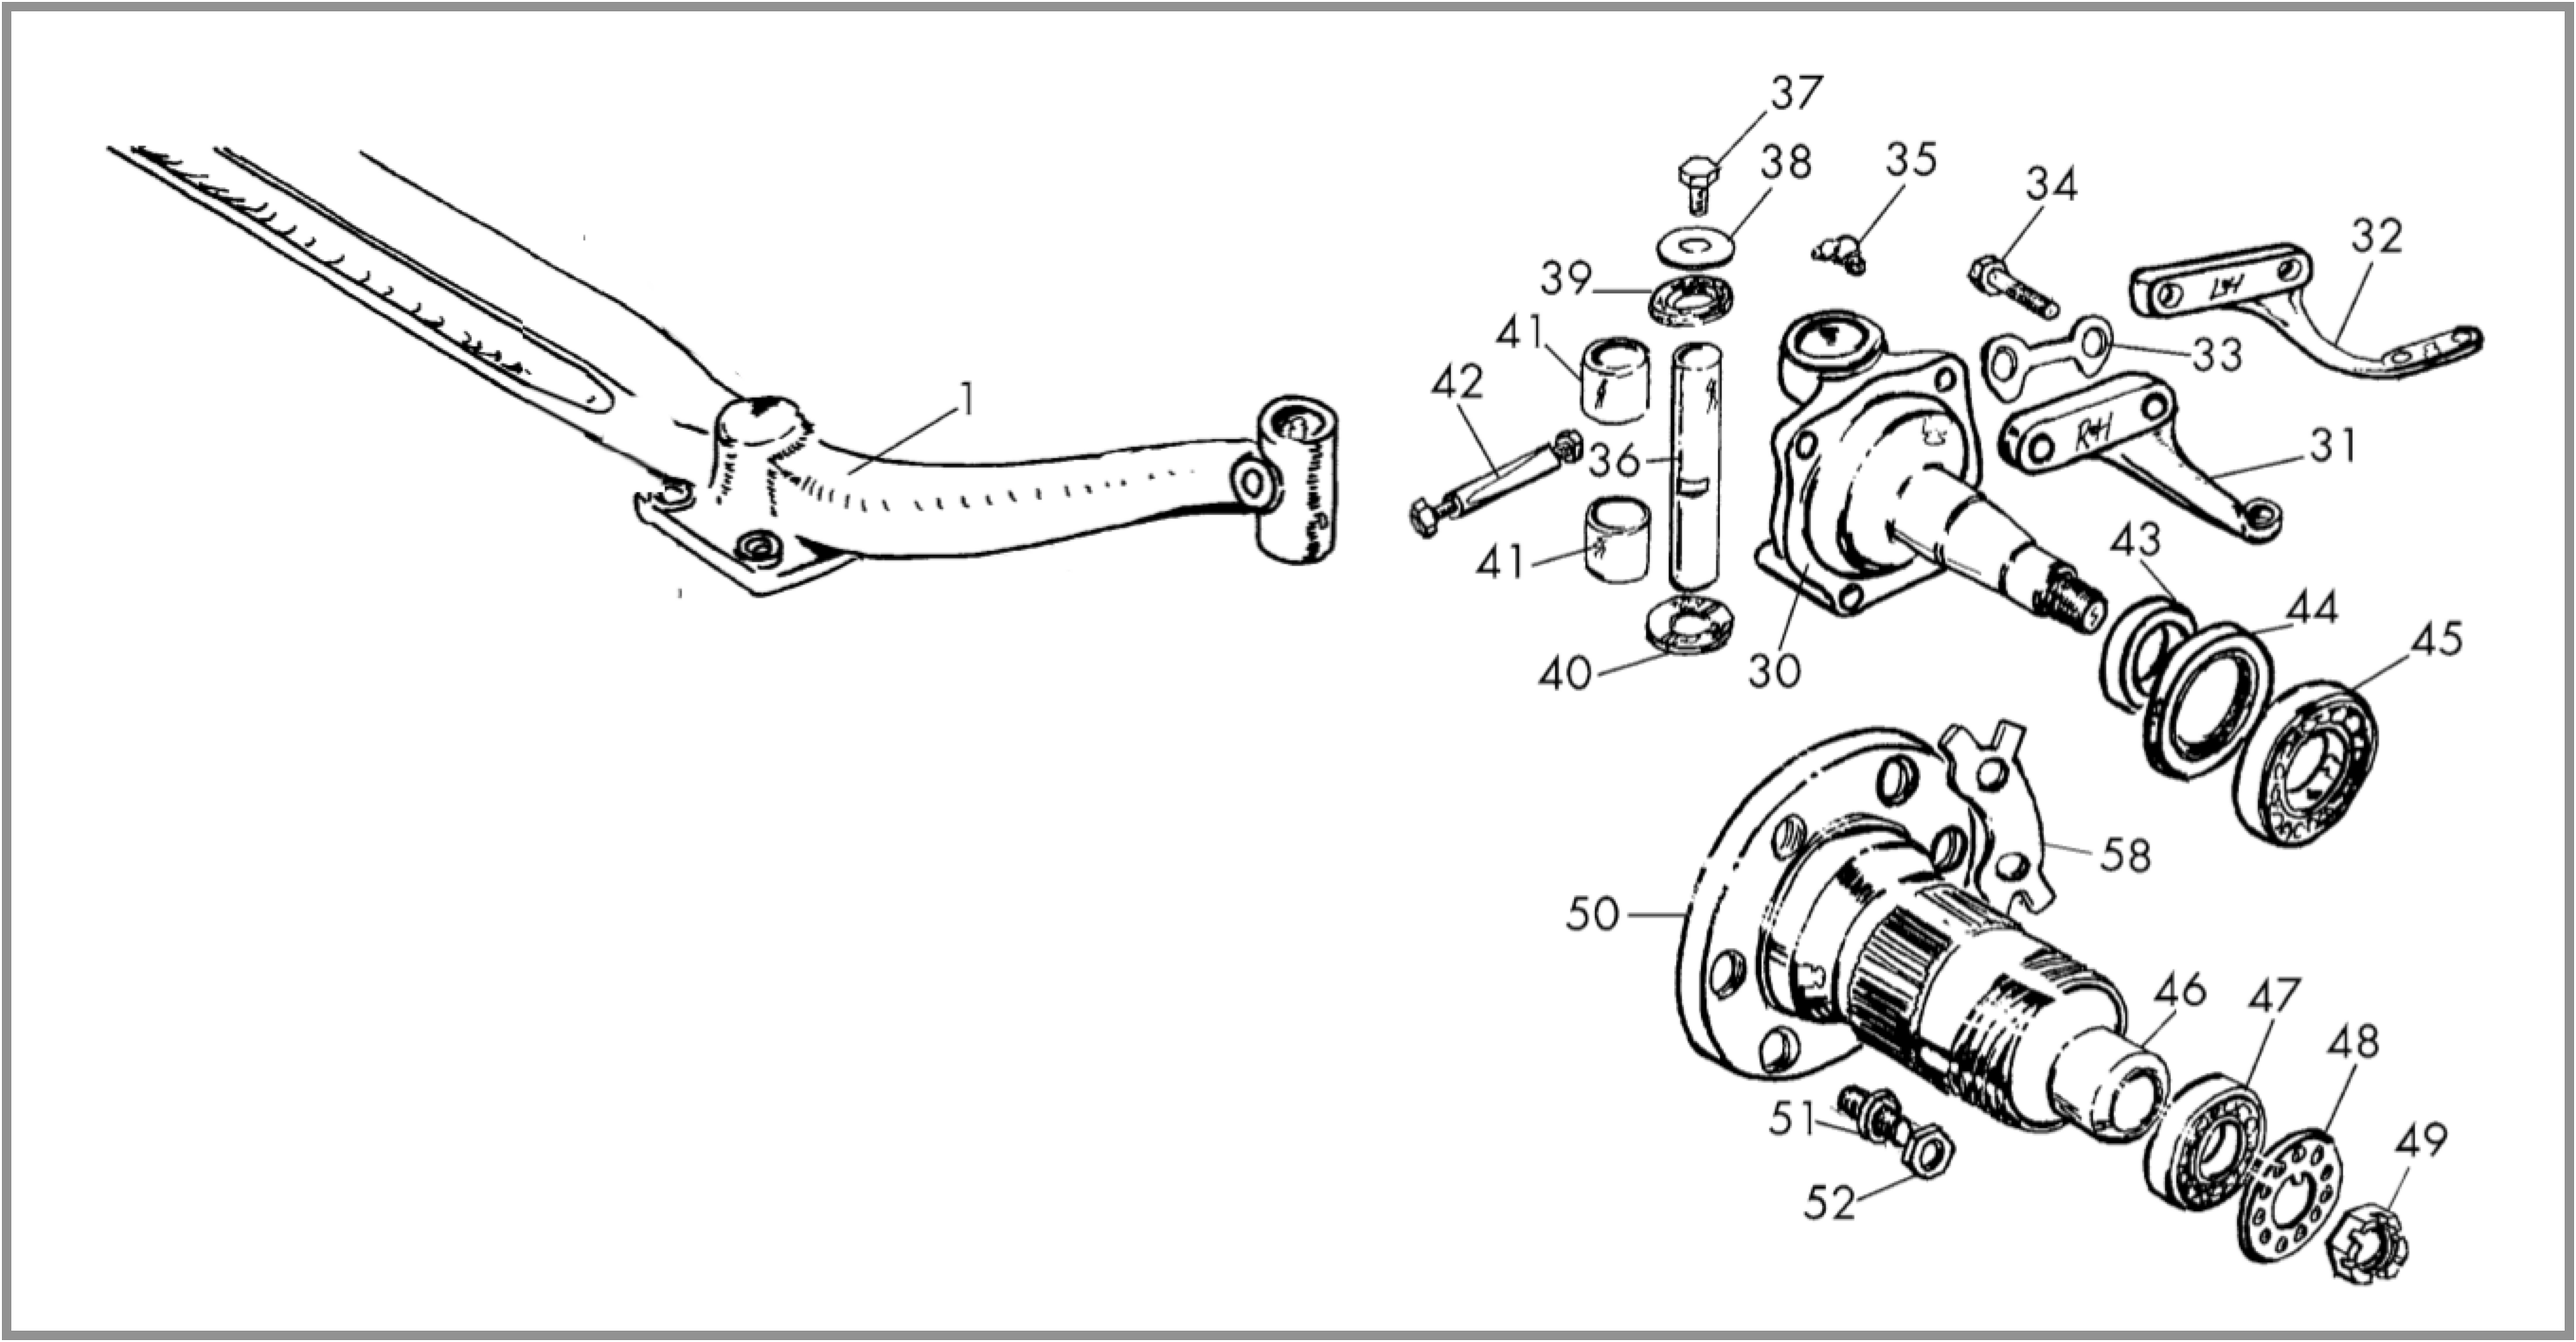
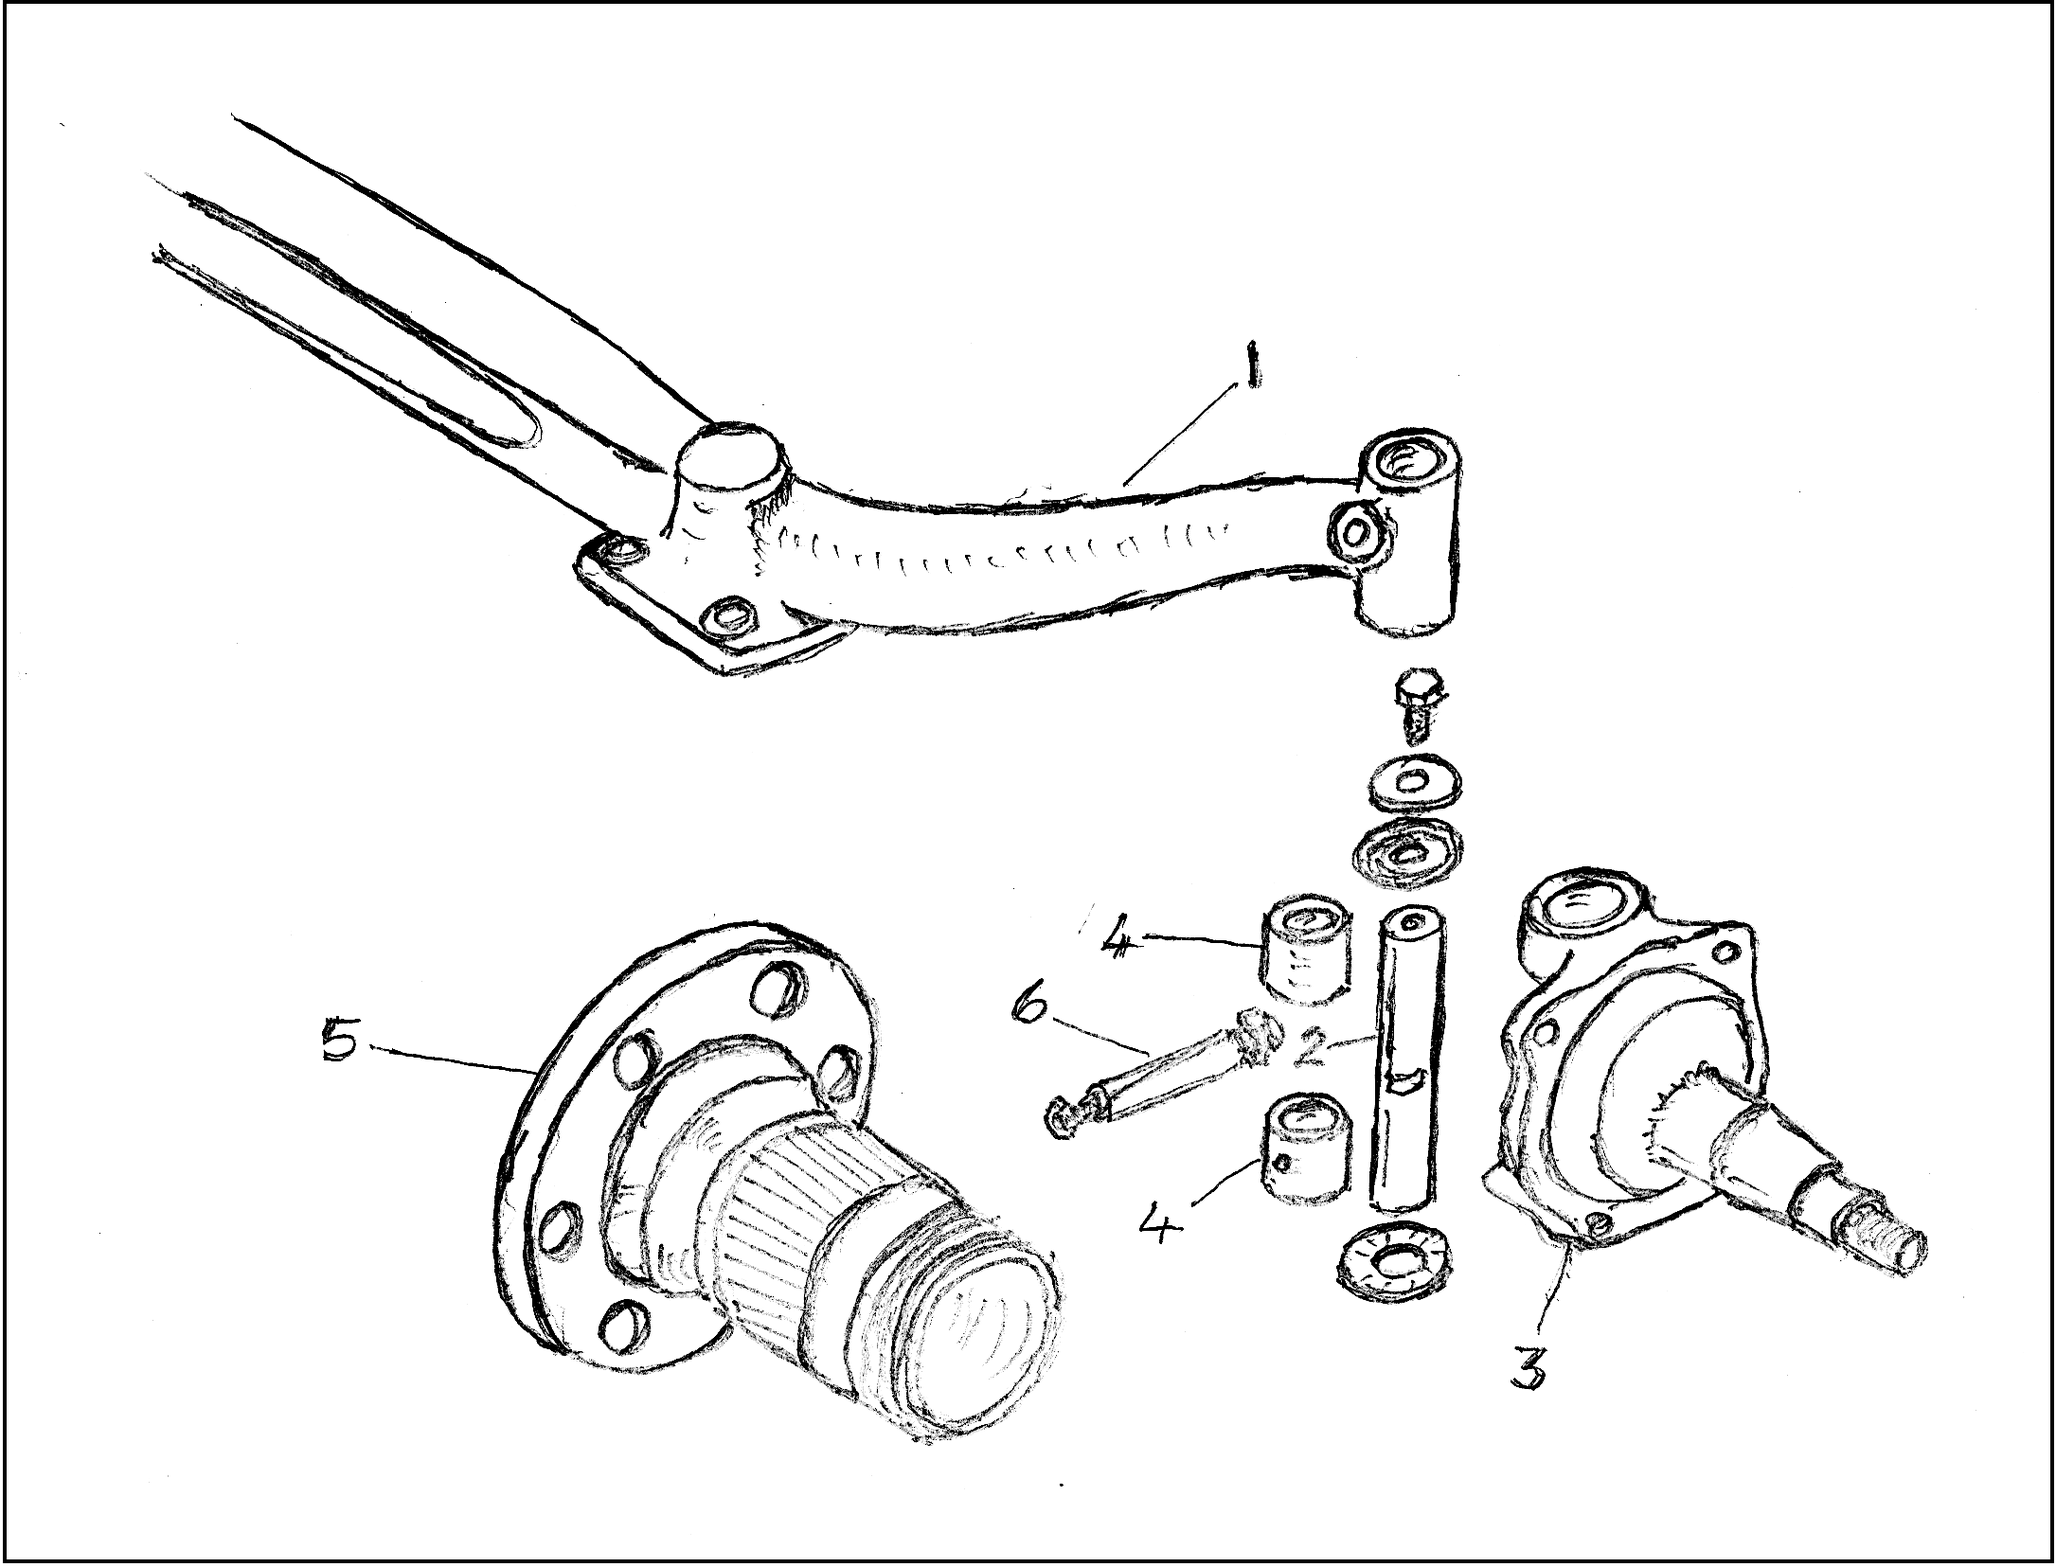
update

diff --git a/articles/kingpins/kingpins.html b/articles/kingpins/kingpins.html
@@ -5,15 +5,15 @@
     <meta http-equiv="X-UA-Compatible" content="IE=edge">
     <title>Unnecessary</title>
     <meta name="description" content="title">
-    <link rel="stylesheet" href="../style.css">
+    <link rel="stylesheet" href="style.css">
   </head>
   <body>
     <div class="spiral">
       <div class="page">
         <h1>Unnecessary Work</h1>
         <p>Have you ever done some work that proved not to have been necessary? Or perhaps you spent money on something that you then found you didn't need? I've recently discovered that I've succumbed to both of these! My unnecessary work involved replacing the kingpins on my TC. But I doubt that many of you have a beam axle and leaf springs on the front suspension of your cars. So I'd better just give you a brief overview of how they are arranged.</p>
-        <p><img src="images/kingpins.png" style="float: right; margin: 0px 0px 20px 20px; box-shadow: 10px 10px 5px #888888; width: 500px;"/>I've 'borrowed' this diagram from one of the parts catalogues, but in it you can see the near-side end of the beam axle (1) with the eye that takes the kingpin. The kingpin (36) passes through the top of the stub axle (30), through the eye of the beam axle and then through the lower part of the stub axle. Those two parts of the stub axle contain bushes (41), because the stub axle rotates as you move the steering wheel. The hub (50) is then pushed on to the spindle of the stub axle and the wheel is attached to the hub.</p>
-        <p>The bit that I missed out is that the kingpin is 'locked' into the axle by a cotter pin (42), which passes through the horizontal hole in the axle and engages with the kingpin. The kingpin is a tight fit into the axle eye and has a slot cut into it. The cotter pin has a tapered flat section so that, with the two holes in the axle slightly overlapping, the cotter pin, when tapped in from one side, locks the kingpin in place. The cotter pin has a small nut on one end, for tightening the pin in the axle, and a large, round-headed nut on the other, which is part of the steering stop.</p>
+        <p><img src="images/kingpins.png" style="float: right; margin: 0px 0px 20px 20px; box-shadow: 10px 10px 5px #888888; width: 500px;"/>I've copied the elements of this diagram from one of the parts catalogues, but in it you can see the near-side end of the beam axle (1) with the eye that takes the kingpin. The kingpin (2) passes through the top of the stub axle (3), through the eye of the beam axle and then through the lower part of the stub axle. Those two parts of the stub axle contain bushes (4), because the stub axle rotates as you move the steering wheel. The hub (5) is then pushed on to the spindle of the stub axle and the wheel is attached to the hub.</p>
+        <p>The bit that I missed out is that the kingpin is 'locked' into the axle by a cotter pin (6), which passes through the horizontal hole in the axle and engages with the kingpin. The kingpin is a tight fit into the axle eye and has a slot cut into it. The cotter pin has a tapered flat section so that, with the two holes in the axle slightly overlapping, the cotter pin, when tapped in from one side, locks the kingpin in place. The cotter pin has a small nut on one end, for tightening the pin in the axle, and a large, round-headed nut on the other, which is part of the steering stop.</p>
         <p><img src="images/kingpinSection.png" style="float: left; margin: 0px 20px 20px 0px; box-shadow: 10px 10px 5px #888888; width: 350px;"/>Hopefully you can see how that works in this vertical slice through the stub axle. There is also a bronze thrust washer between the beam axle and the stub axle and steel shims to reduce any vertical movement.</p>
         <p>My understanding is that all MG cars, up to and including the TC, had this arrangement with a beam axle. The Y-Type, however, first produced in 1947, and therefore overlapping with TC production, was the first model to be fitted with independent front suspension. This design, which still has a stub axle and the equivalent of a kingpin (called a swivel pin), but no beam axle and with the leaf spring replaced by a coil spring, was then used on the TD, TF, MGA and with a modified version on the MGB.</p>
         <p>Now, why did I decide to replace the kingpins on the TC. When I replaced the spindles on the stub axles, back in 2016, I noticed two things. Firstly, the stub axle bushes on one side were clearly different to those on the other side, protruding at the top and bottom. Secondly, the cotter pins were odd and not of the correct type and when I fitted the correct versions, the near-side pin went further through the axle than it should. These observations lead me to the conclusion that odd kingpins had been fitted to the car. The stub axles are sided and they had been put on the wrong sides, so at the time I was more concerned about correcting this and dealing with cracks that were visible at the roots of the spindles. Replacement of the kingpins could wait until later.</p>
@@ -23,9 +23,9 @@
         <p><img src="images/cotter.png" style="float: left; margin: 0px 20px 20px 0px; box-shadow: 10px 10px 5px #888888; width: 350px;"/>So what was I to do? As you can see from the drawing, the cotter pin is a bolt with a large nut on one end (which forms part of the steering stop) and a smaller nut on the other, which is used to tighten the pin in the axle. However, rather than just being a cylindrical bolt, it has a flat surface machined on it so that it can engage with the slot in the kingpin. I could ask the person who makes these cotter pins to make one with the flat moved along a little, but that would take time and result in something that might cause confusion in years to come. So I decided to make a shim, a sliver of steel to go between the flat on the cotter pin and the slot in the kingpin. You can see it noted in the drawing and a quick calculation suggested that it needed to be less than 20 thou in thickness.</p>
         <p><img src="images/IMG_1194s.jpg" style="float: right; margin: 0px 0px 20px 20px; box-shadow: 10px 10px 5px #888888; width: 450px;"/>So I cut the head and thread off a bolt of the same thickness and cut a sliver about &frac18;" thick, made a jig to hold it and filed it so that it essentially completed the cotter pin. Then I filed the curved surface until it was a uniform 20 thou thick. In fact, I had to reduce it to 15 thou for it to allow the cotter pin to go into the axle against the kingpin. The photo shows the cotter pin and the shim (although the shim should be rotated through 180 degrees). I then heat treated the shim to harden it. After driving the car for 80 miles, over some pretty rough roads (but aren't they all), I removed the cotter pin and shim to check that they had not been damaged in any way.</p>
         <p>As you can imagine, this all took some time. The bad news is that I didn't need to buy new kingpins and do the work to fit them, I could have just made a shim. Although, on the positive side, at least I now know that all the parts are as they should be. I doubt it will be the last time that I do unnecessary work or incur unnecessary expense.</p>
-        <p>(Written 5th November 2021; published in WSMGOC Main Gear, xxx 2021.)</p>
+        <p>(Written 8th November 2021; published in WSMGOC Main Gear, xxx 2021.)</p>
         <div style="clear: both; font-size:70%; padding 50px">
-          <p>&copy; David James 2021   Last updated: 5th November 2021</p>
+          <p>&copy; David James 2021   Last updated: 8th November 2021</p>
         </div>
       </div>
     </div>
